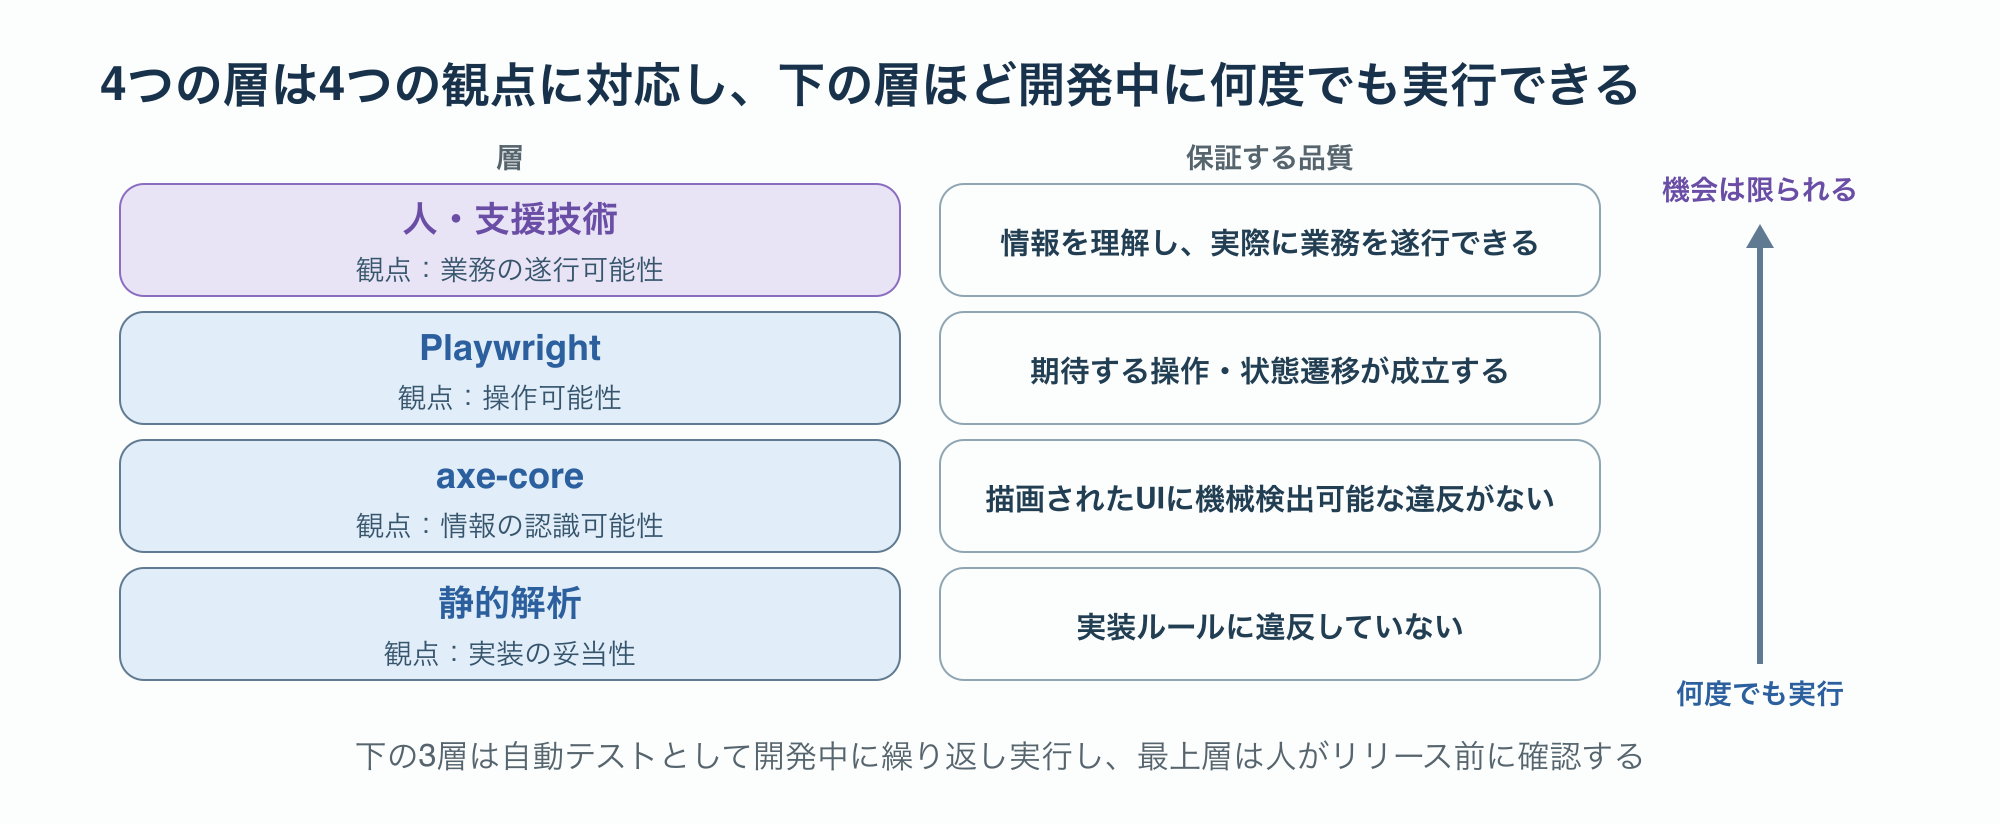
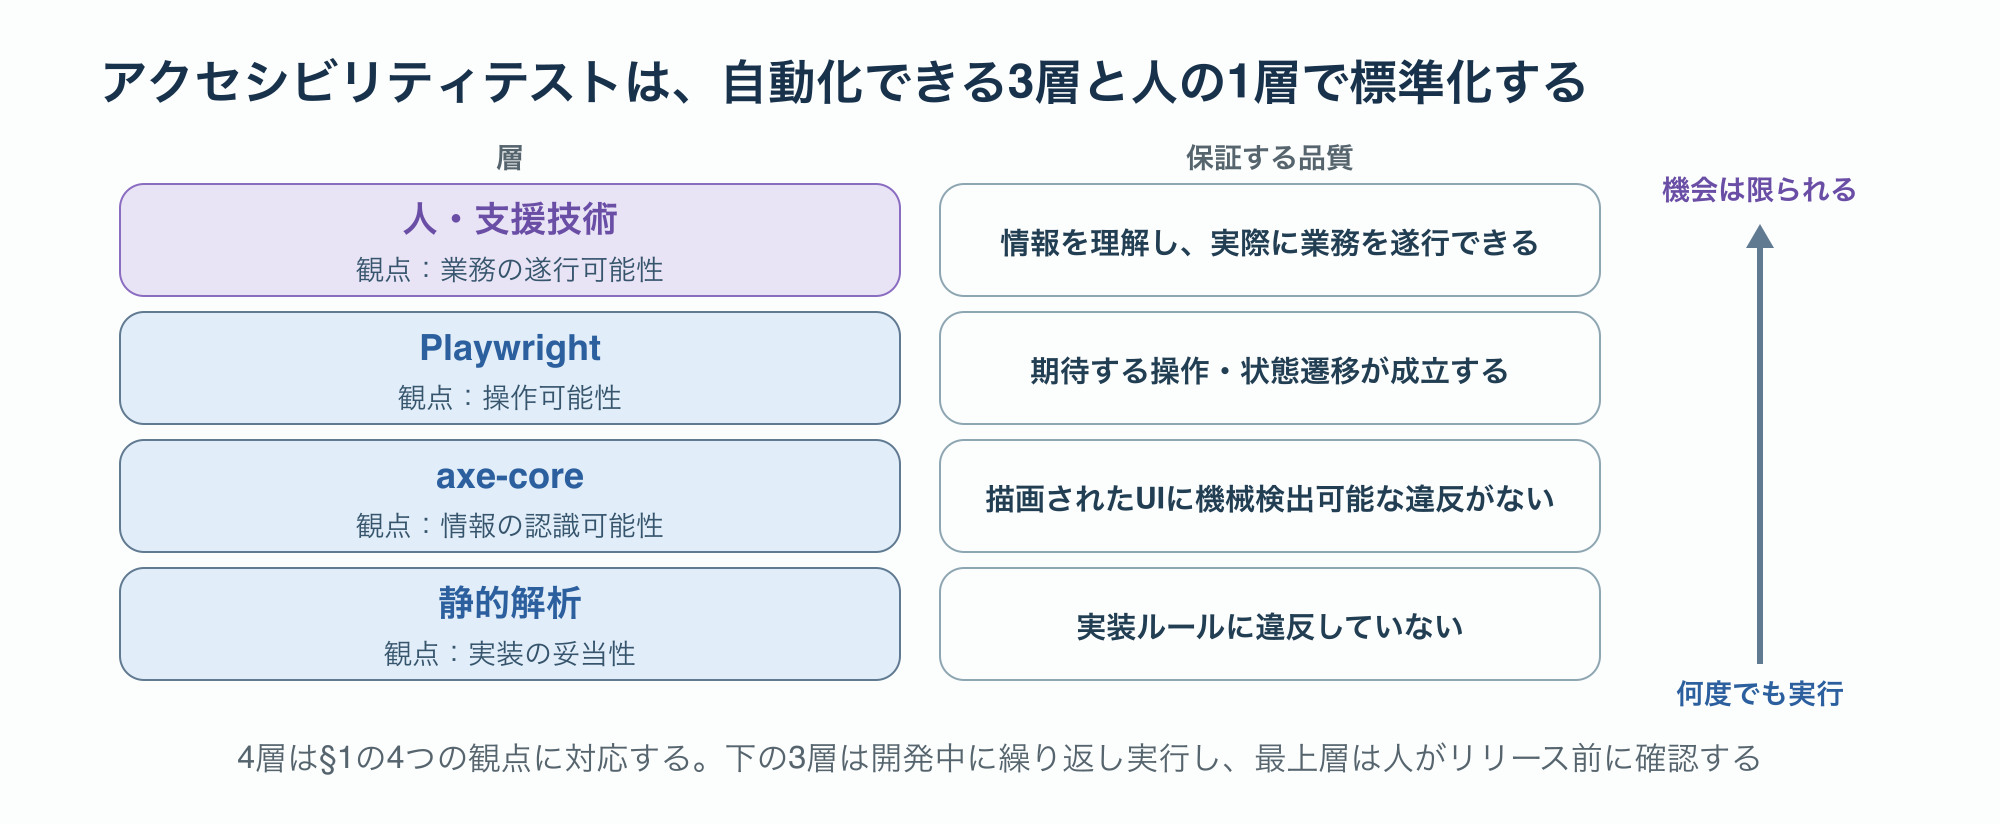
Retitle the four-layer figure with the closing chapter's conclusion

Changed region(s): [[0.031, 0.0607, 0.837, 0.1517], [0.124, 0.8799, 0.899, 0.9405]]

diff --git a/dist/offline.html b/dist/offline.html
@@ -956,7 +956,7 @@ expect(
 </tbody>
 </table></div>
 <figure>
[2 lines of base64/hex data omitted]
 <figcaption aria-hidden="true">4層の標準化</figcaption>
 </figure>
 <p>4層は、§1の4つの観点（実装の妥当性、情報の認識可能性、操作可能性、業務の遂行可能性）に対応します。下の層ほど自動化でき、開発中に何度でも実行できます。上の層ほど人の判断が要り、実行の機会は限られます。</p>

diff --git a/scripts/draw_figures.py b/scripts/draw_figures.py
@@ -405,7 +405,7 @@ def fig_10_ci_pipeline():
 # §12 4層の標準化
 # =====================================================================
 def fig_11_four_layers():
-    body = [title('4つの層は4つの観点に対応し、下の層ほど開発中に何度でも実行できる')]
+    body = [title('アクセシビリティテストは、自動化できる3層と人の1層で標準化する')]
     rows = [
         (HUMAN, HUM_LINE, HUM_TEXT, '人・支援技術', '観点：業務の遂行可能性', '情報を理解し、実際に業務を遂行できる'),
         (PRIMARY, LINE, PRI_TEXT, 'Playwright', '観点：操作可能性', '期待する操作・状態遷移が成立する'),
@@ -417,7 +417,7 @@ def fig_11_four_layers():
     body.append(text(255, 84, '層', 14, 700, MUTED))
     body.append(text(635, 84, '保証する品質', 14, 700, MUTED))
     body.append(up_axis(880, 112, 332, '機会は限られる', '何度でも実行'))
-    body.append(note(384, '下の3層は自動テストとして開発中に繰り返し実行し、最上層は人がリリース前に確認する'))
+    body.append(note(384, '4層は§1の4つの観点に対応する。下の3層は開発中に繰り返し実行し、最上層は人がリリース前に確認する'))
     return svg(1000, 412, '4層の標準化', body,
                desc='上から「人・支援技術（観点：業務の遂行可能性）：情報を理解し、実際に業務を遂行できる」「Playwright（観点：操作可能性）：期待する操作・状態遷移が成立する」「axe-core（観点：情報の認識可能性）：描画されたUIに機械検出可能な違反がない」「静的解析（観点：実装の妥当性）：実装ルールに違反していない」の4層を積み、右端の下から上への矢印に「何度でも実行」から「機会は限られる」へと記した図')
 
